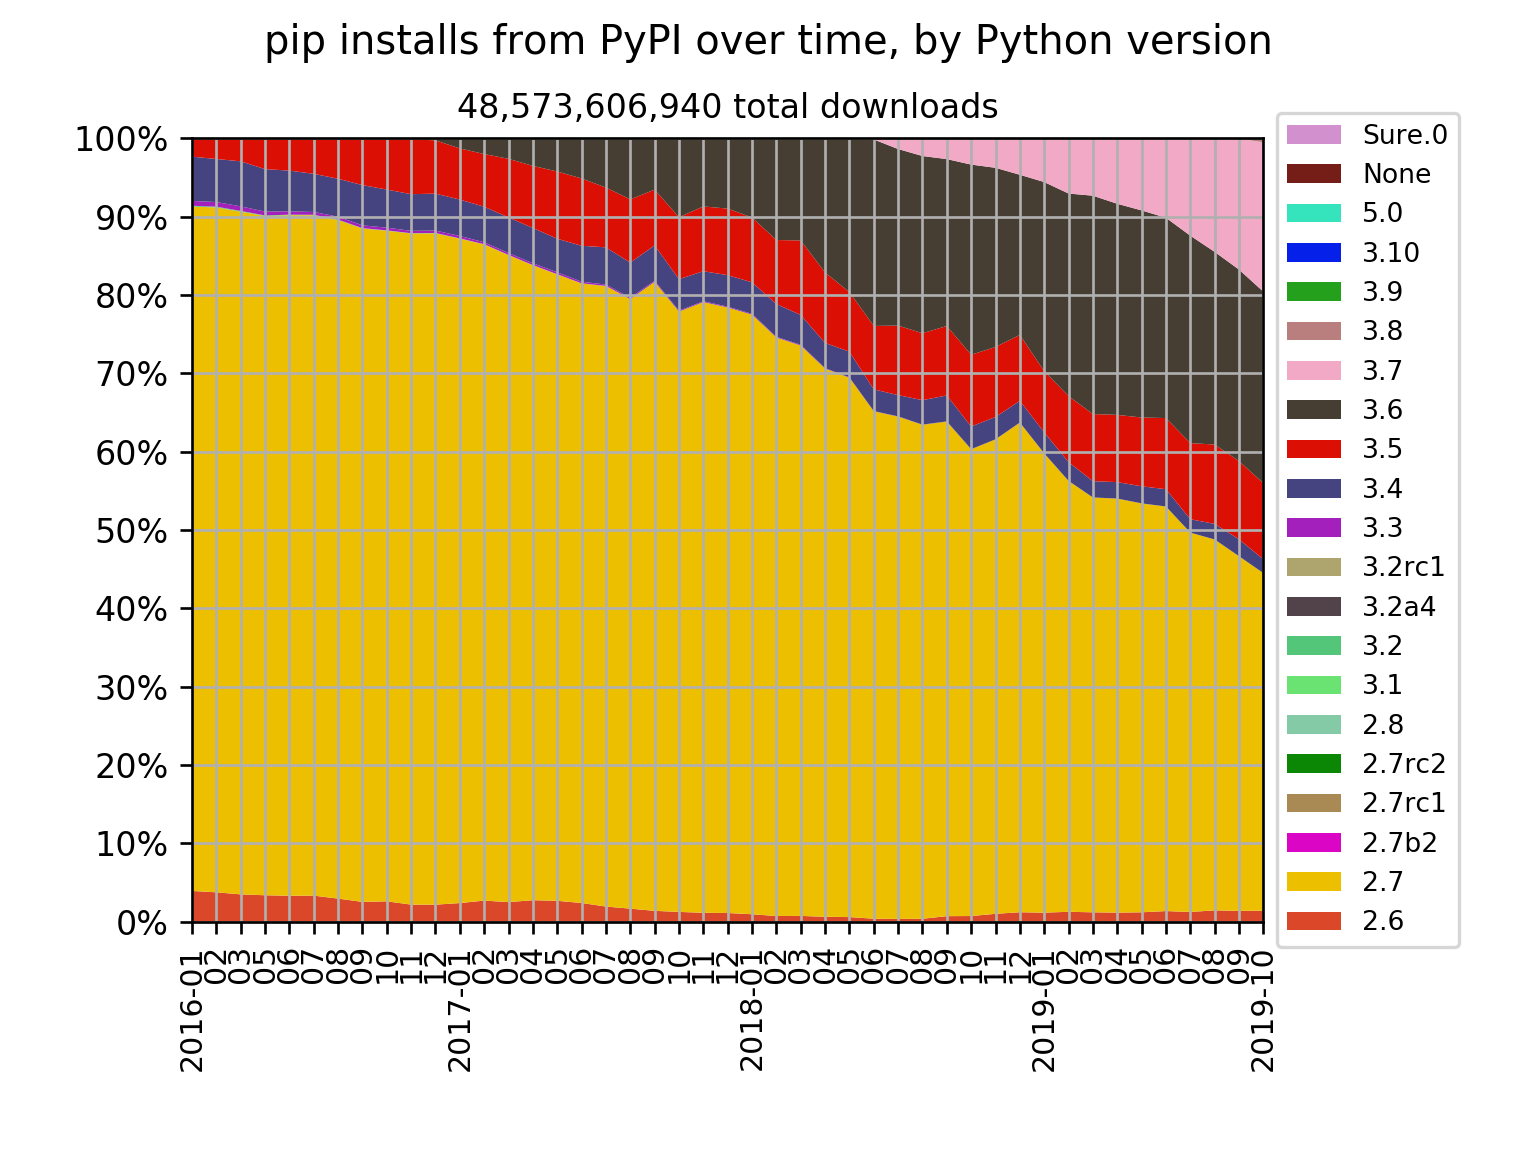
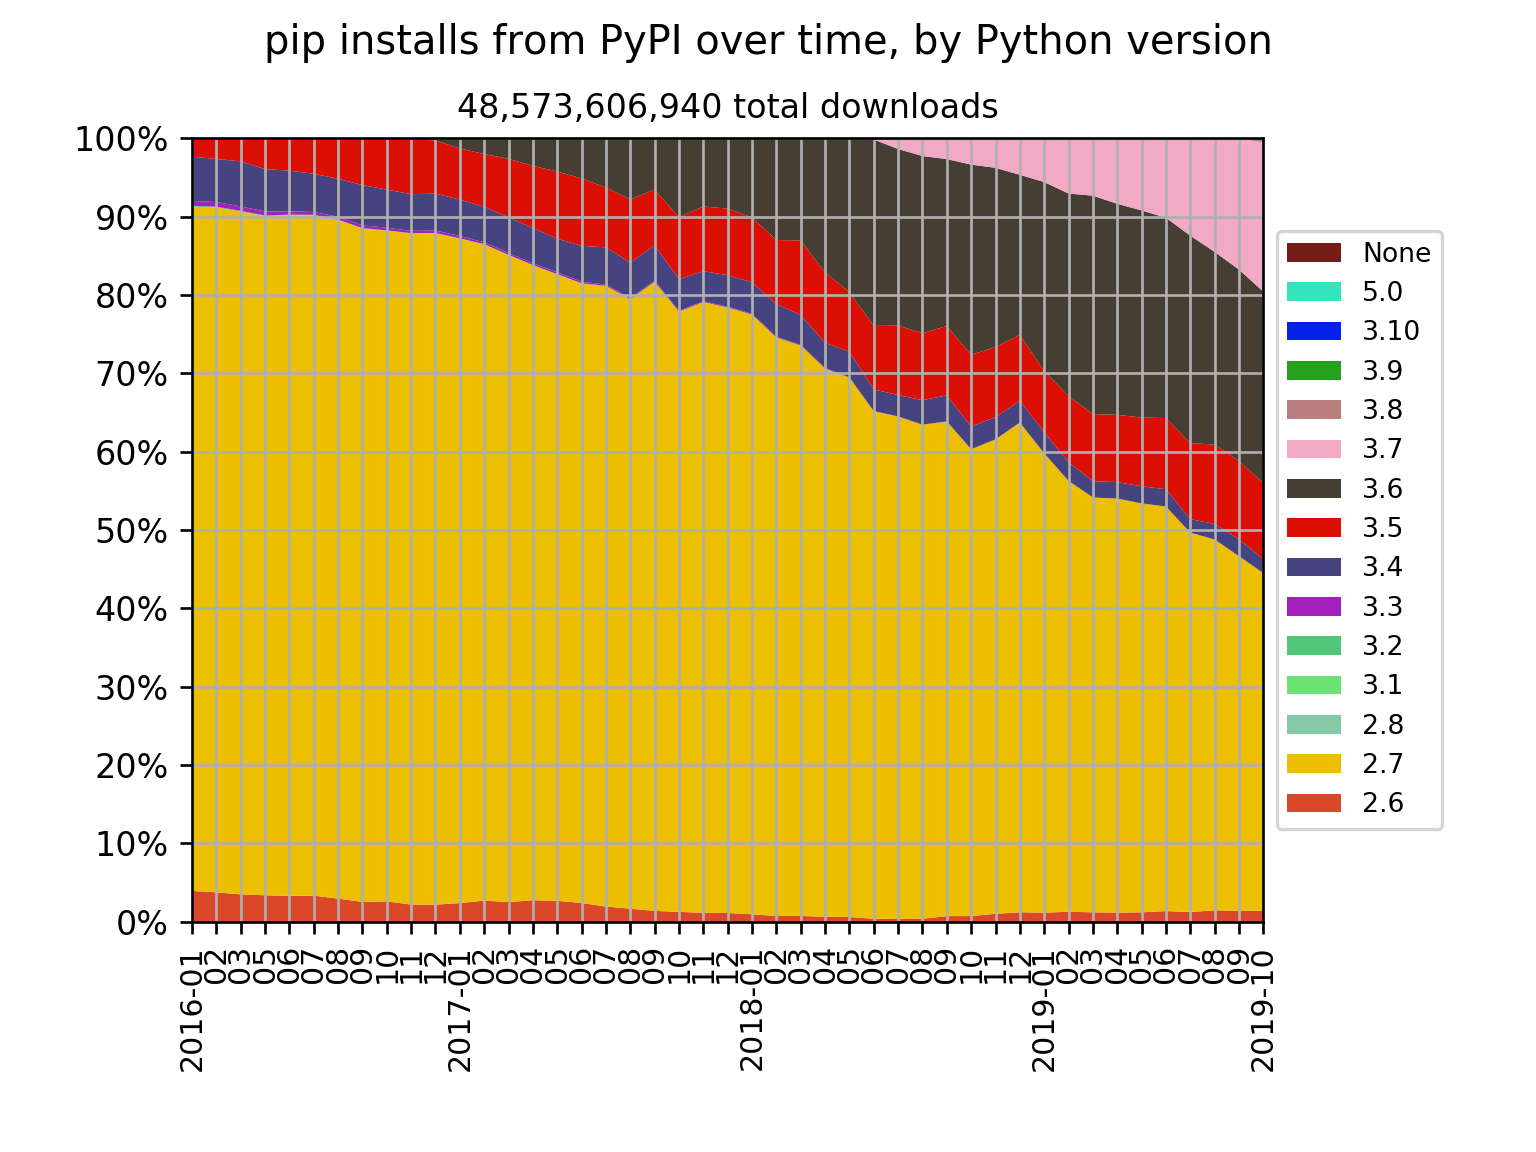
Fold alpha, beta and rc numbers into main release and Sure.0 into None

Changed region(s): [[0.8125, 0.0938, 0.9688, 0.8125]]

diff --git a/jsons2csv.py b/jsons2csv.py
@@ -10,9 +10,11 @@ import json
 import os
 import re
 import traceback
+from collections import defaultdict
 from pprint import pprint
 
 from natsort import natsorted  # pip install natsort
+from packaging.version import parse  # pip install packaging
 from termcolor import colored  # pip install termcolor
 
 
@@ -184,7 +186,8 @@ def main():
                 print(colored(f"Skipping {f}: {e}", "yellow"))
                 continue
             # pprint(d)
-            month_data = {"yyyy-mm": month_name}
+            month_data = defaultdict(int)
+            month_data["yyyy-mm"] = month_name
             try:
                 # pypinfo
                 rows = d["rows"]
@@ -196,12 +199,17 @@ def main():
                 version_index = "category"
                 downloads_index = "downloads"
             for row in rows:
-                # month_data[row["python_version"]] = float(row["percent"]) * 100
-                month_data[row[version_index]] = row[downloads_index]
-                if row[version_index] == "null":
+                version = row[version_index]
+                base_version = parse(version).base_version  # strips a4, b2, rc1
+
+                if version in ["null", "Sure.0"]:
                     # Harmonise pypistats' "null" with pypinfo's "None"
-                    row[version_index] = "None"
-                all_versions.add(row[version_index])
+                    # And include junk "Sure.0"
+                    base_version = "None"
+
+                # month_data[row["python_version"]] = float(row["percent"]) * 100
+                month_data[base_version] += row[downloads_index]
+                all_versions.add(base_version)
         all_data.append(month_data)
 
     # pprint(all_data)
